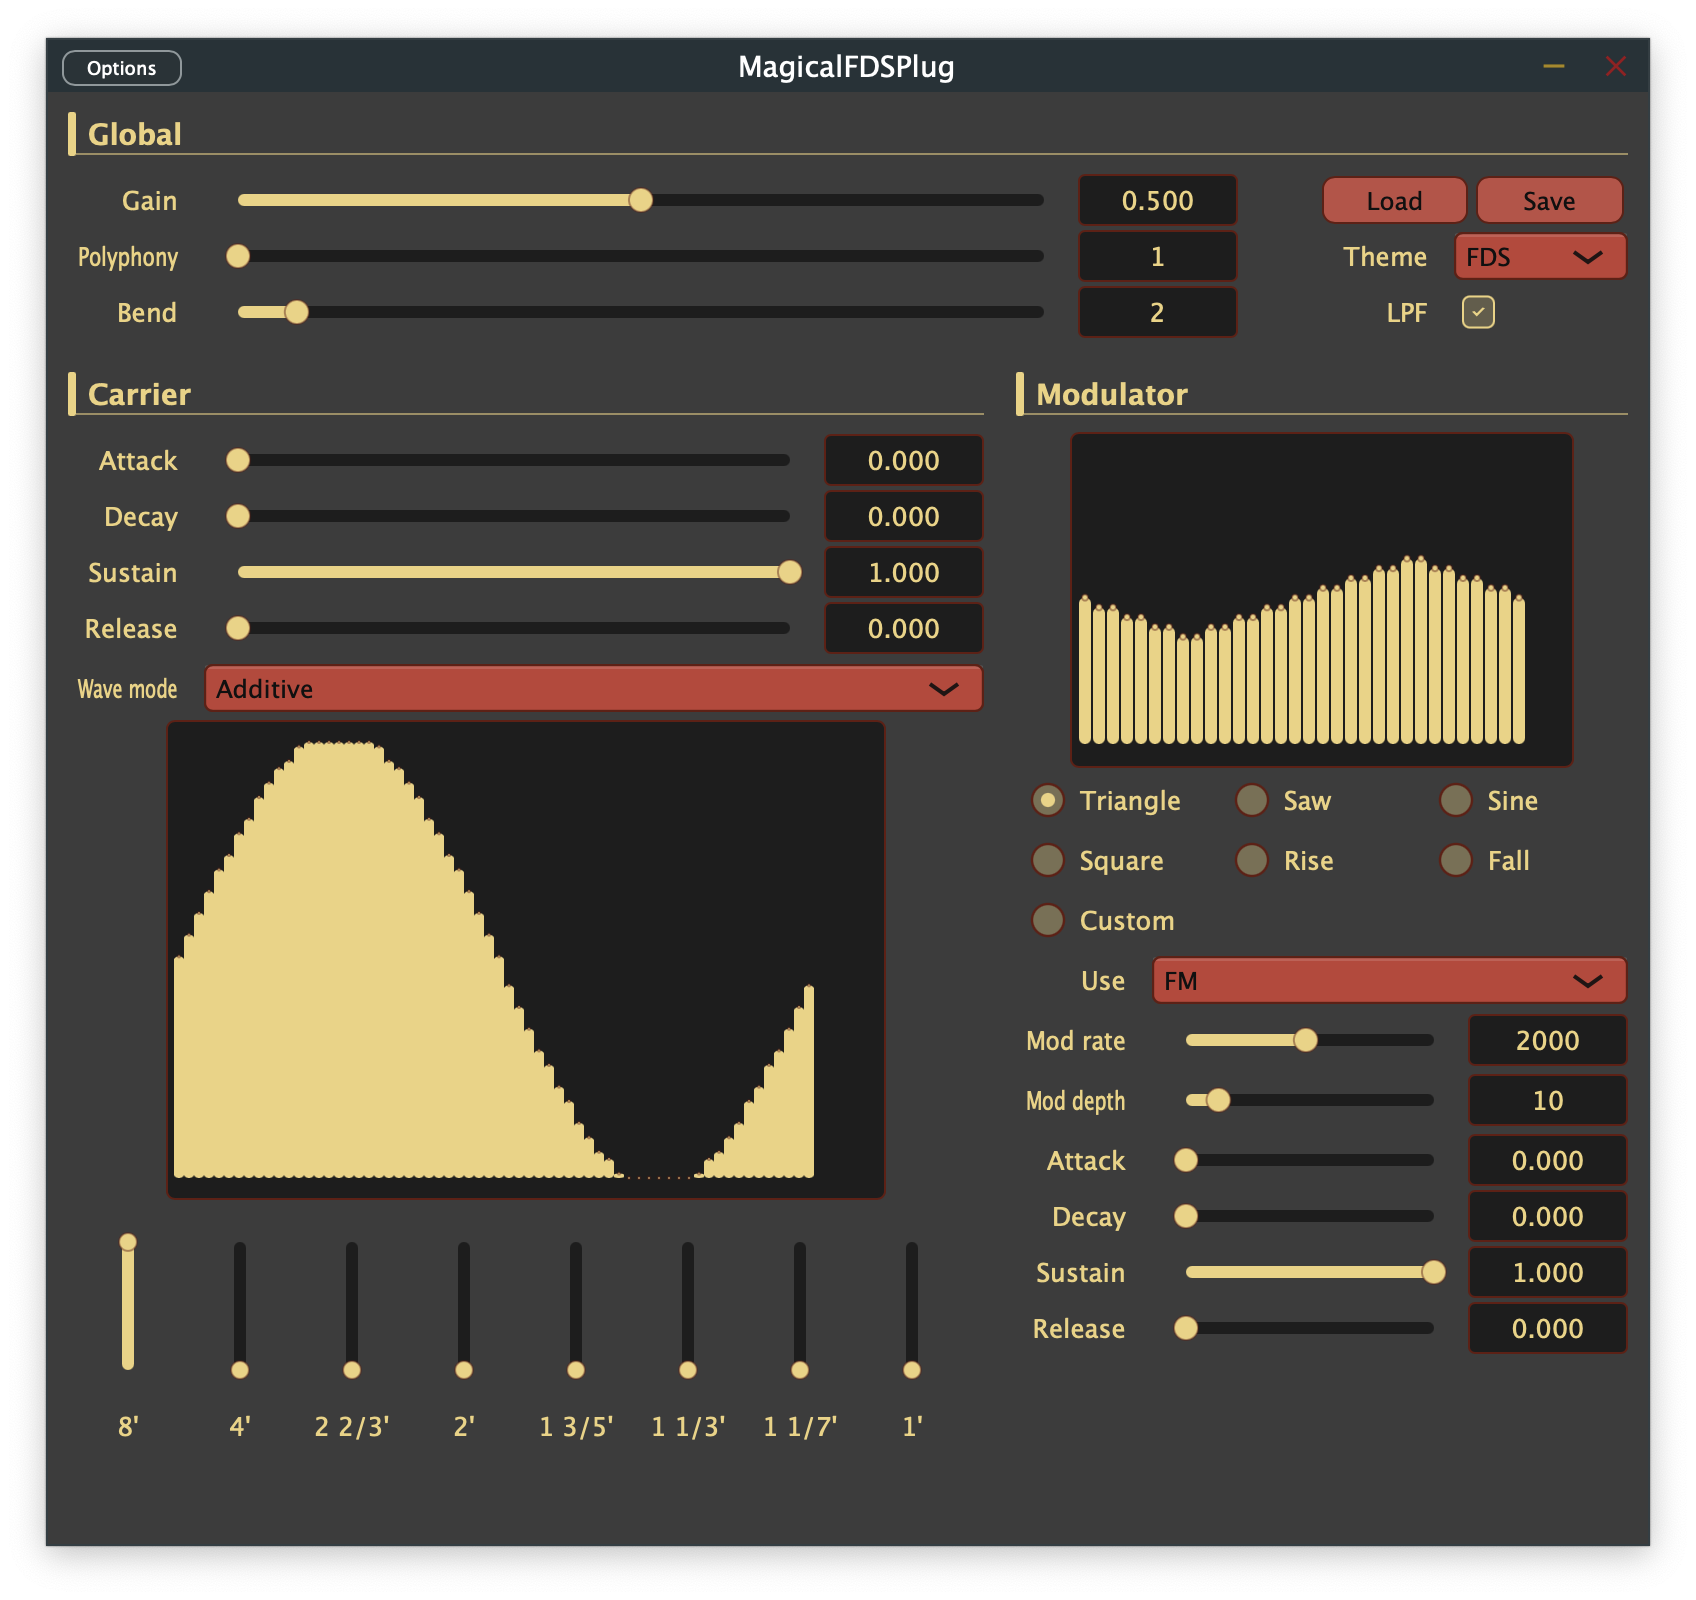
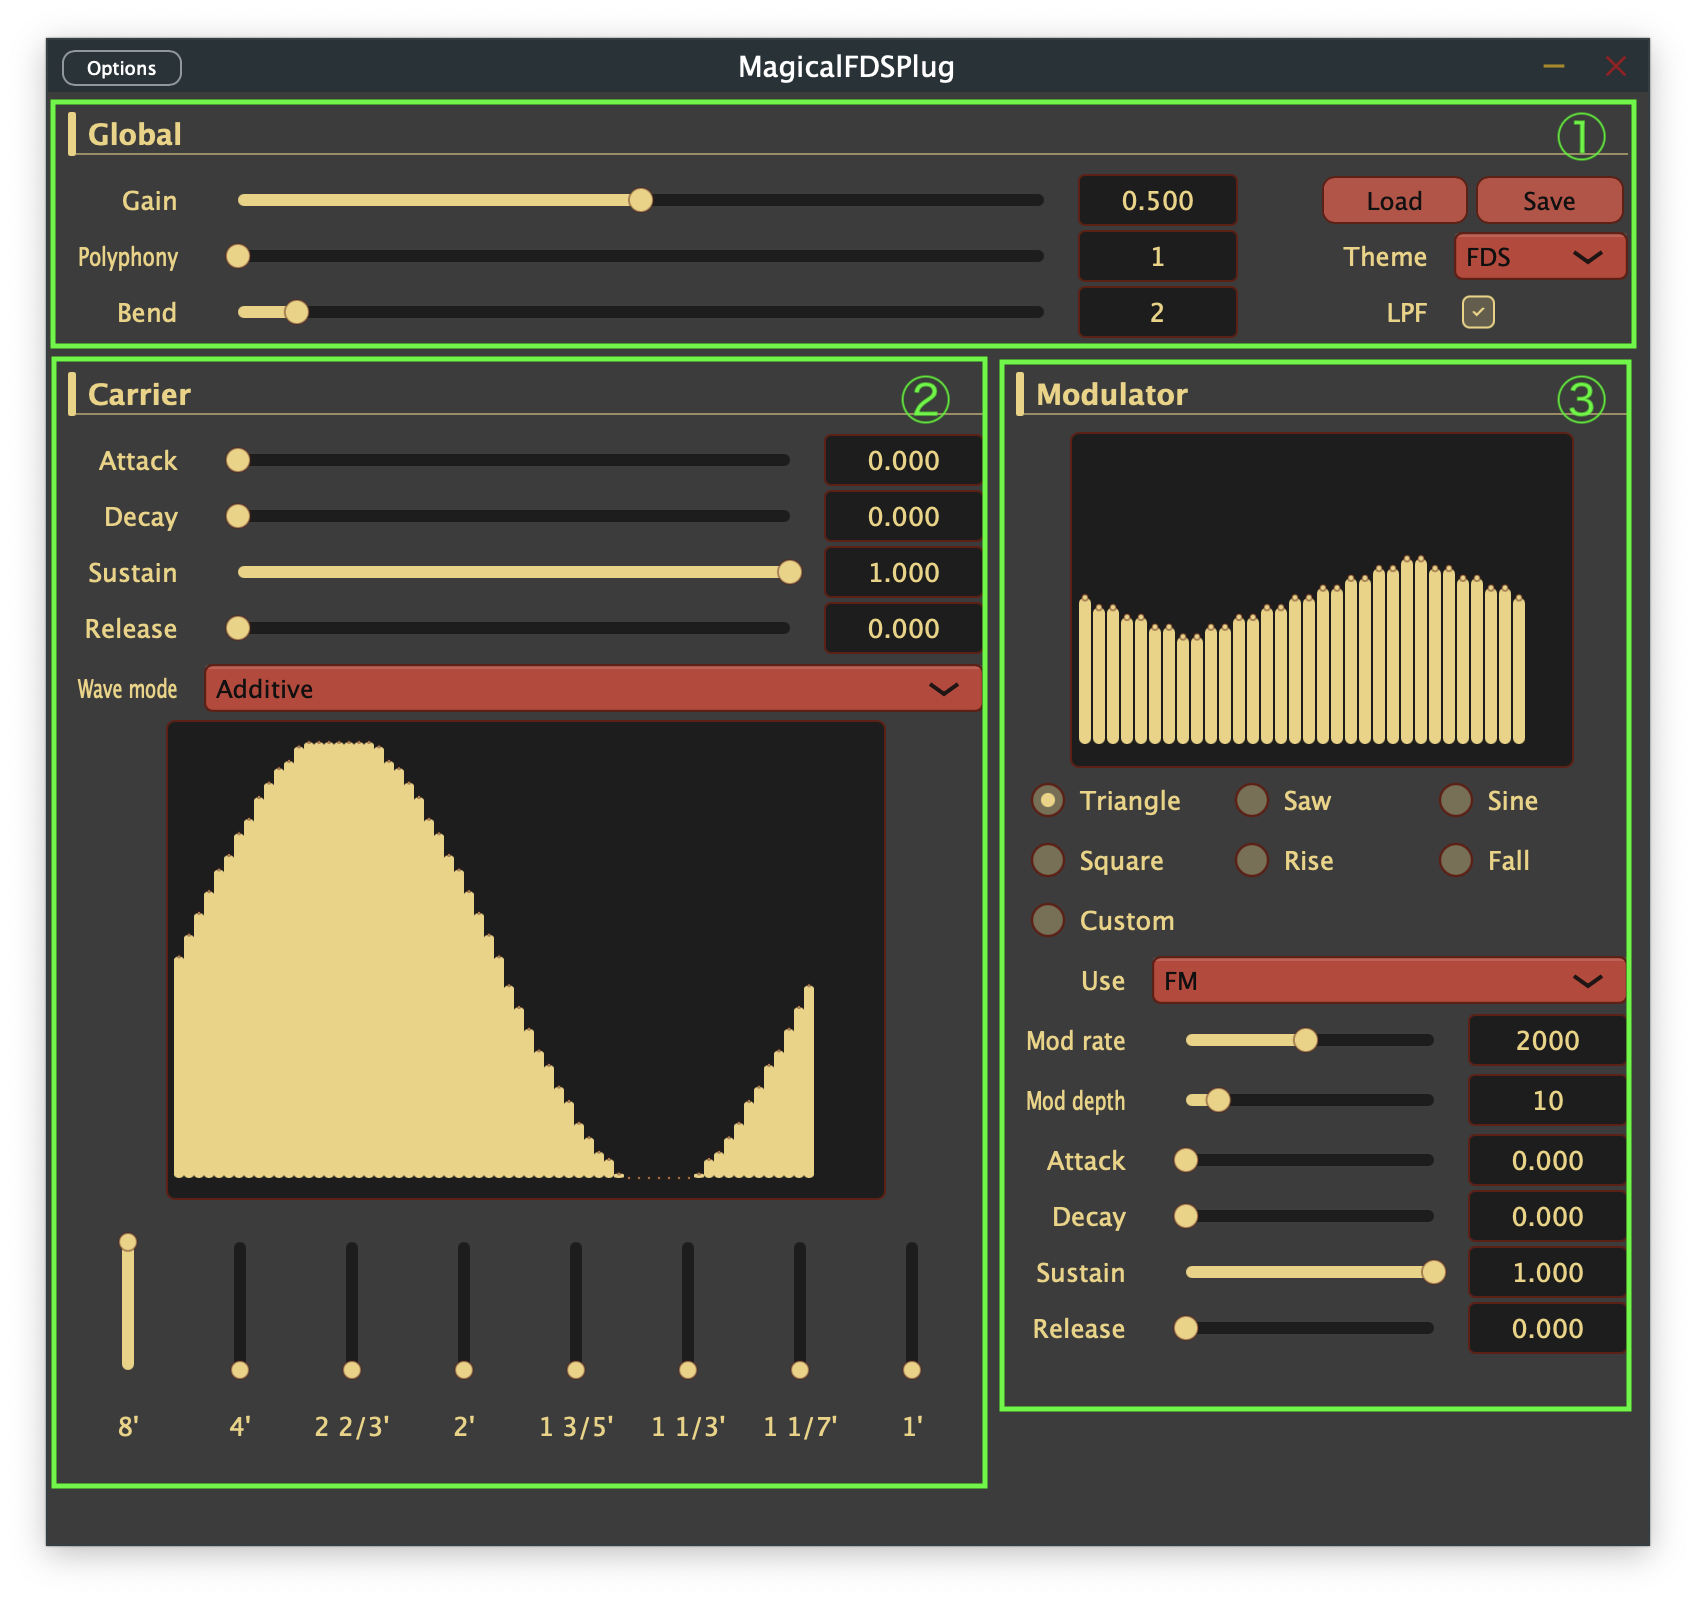
Fixed docs

Changed region(s): [[0.0312, 0.0625, 0.9688, 0.9375], [0.0312, 0.0625, 0.0625, 0.0938]]

diff --git a/docs/readme-ja.html b/docs/readme-ja.html
@@ -126,12 +126,11 @@
 
     ---------------------------------------------------------->
     <h1>Magical FDS Plugとは</h1>
-    <p> Magical FDS Plug は、8bit 時代の「ディスクシステム音源」（FDS 音源）の音色を再現するソフトウェア・シンセサイザーです。
+    <p> Magical FDS Plug は、いわゆる「ディスクシステム音源」（FDS 音源）の音色を再現するソフトウェア・シンセサイザーです。
       Audio Units および VST3 をサポートする Mac / Windows のホストアプリケーションで、プラグインとして利用できます。
     </p>
     <p> FDS 音源は、64 サンプルの波形メモリ（キャリア）を、別の 32 ステップの命令列（モジュレータ）で変調するという独特の仕組みを持ちます。
-      自由度は高い一方、実機では波形データを直接編集する必要があり、設定が難しい面もありました。
-      本プラグインでは、その自由度を保ちつつ、加算合成やプリセット変形など、ロジカルな方法で波形を組み立てられるインターフェースを提供しています。
+      自由度が非常に高いため設定が難しい音源ですが、本プラグインでは、その自由度を保ちつつ、加算合成やプリセット変形など、ロジカルな方法で波形を組み立てられるインターフェースを提供しています。
     </p>
 
     <h2>特徴</h2>
@@ -142,7 +141,6 @@
       <li><strong>変調レート LFO / FM / OFF</strong> — ゆっくり揺らす LFO から、音色を変える FM まで使い分け</li>
       <li><strong>キャリア・モジュレータそれぞれ ADSR エンベロープ</strong> — Magical 8bit Plug 2 と同様の操作感</li>
       <li><strong>実機近似の出力ローパス（約 2 kHz）</strong> — オン／オフ切替（デフォルト：オン）</li>
-      <li><strong>Magical 8bit Plug 2 に準拠した UI</strong> — カラーテーマ 7 種類、セクション構成、ADSR の操作感</li>
     </ul>
 
     <h2>キャリアとモジュレータ</h2>
@@ -176,10 +174,16 @@
     </p>
     <p>
       特に最近では DAW 含むアプリは多様化していますので、それぞれについてプラグイン使用方法について把握しきれておりませんし、実質不可能です。
-      ですのでご質問は私ではなく、Google 先生か、またはお使いのソフトのユーザコミュニティなどにお問い合わせいただければと思います。
+      ですのでご質問は私ではなく、検索等で調べていただくか、またはお使いのソフトのユーザコミュニティなどにお問い合わせいただければと思います。
       基本的なインストール方法の問題については、お問い合わせいただいてもお答えいたしませんのであらかじめご了承ください。
     </p>
     <table>
+      <tr>
+        <td>プラットフォーム</td>
+        <td>プラグイン形式</td>
+        <td>拡張子</td>
+        <td>一般的なインストールパス</td>
+      </tr>
       <tr>
         <td rowspan="2">Mac</td>
         <td>AudioUnits</td>
@@ -251,7 +255,7 @@
     <p>キャリアは、実際に聴こえる 64 サンプル・64 段階（6 bit）の波形です（上図 ②）。</p>
 
     <h3>エンベロープ</h3>
-    <p>音量の時間変化を 4 つのパラメータで指定します。Magical 8bit Plug 2 と同様の操作感です。</p>
+    <p>音量の時間変化を 4 つのパラメータで指定します。</p>
     <dl>
       <dt>Carrier Attack</dt>
       <dd>鍵盤を押してから音量が最大に達するまでの時間（秒、0〜5）。</dd>
@@ -283,13 +287,10 @@
         <td>64 点を直接描画する</td>
       </tr>
     </table>
-    <p> Additive / Preset Morph / Pulse Shape の設定値は、モードを切り替えても内部に保持されます。
-      別モードを試したあと元に戻すと、以前の値が復元されます。Free Draw のみ例外で、スライダーの値がそのまま発音用パラメータになります。
-    </p>
 
     <h3>波形表示パート</h3>
     <p>64 本の縦スライダーで波形を表示します。Free Draw 以外は読み取り専用で、コントロールの変更に応じて更新されます。
-      Free Draw では各スライダーを直接操作できます（各点 0〜63、6 bit）。
+      Free Draw では各スライダーを直接操作できます（各点 0〜63）。
     </p>
 
     <h3>Additive（加算合成）</h3>
@@ -304,7 +305,7 @@
       <dt>Preset</dt>
       <dd>Triangle / Sawtooth / Sine からベース波形を選択します。</dd>
       <dt>Morph</dt>
-      <dd>中央（0）で無変形。右に動かすと<strong>圧縮</strong>（小さい振幅を相対的に強調）、左に動かすと<strong>伸長</strong>（小さい振幅をさらに下げる）。内部的にはべき乗変形です。</dd>
+      <dd>中央（0）で無変形。右に動かすと<strong>圧縮</strong>（小さい振幅を相対的に強調）、左に動かすと<strong>伸長</strong>（小さい振幅をさらに下げる）。</dd>
     </dl>
 
     <h3>Pulse Shape（パルス変形）</h3>
@@ -322,11 +323,11 @@
 
     <h2><a name="modulator">Modulator セクション</a></h2>
 
-    <p>モジュレータは、FDS 実機と同様 32 ステップの 3 bit 命令列として動作し、キャリア波形の読み出し速度（＝音色）を変調します（上図 ③）。</p>
+    <p>モジュレータは、FDS 実機と同様 32 ステップの 3 bit 命令列(opcode列; 後述)として動作し、キャリア波形の読み出し速度（＝音色）を変調します（上図 ③）。</p>
 
     <h3>波形プレビューと波形選択</h3>
     <p>32 点の累積波形を表示します（読み取り専用）。Triangle / Saw / Sine / Square / Rise / Fall / Custom から選択します。
-      プリセット 6 種は、実機 opcode 列に相当する命令列を内部に保持しています。Custom 選択時は opcode テキスト欄が表示されます。
+      Custom 選択時は opcode テキスト欄が表示されます。
     </p>
 
     <h3>Use / Rate / Depth</h3>
@@ -379,12 +380,15 @@
 
     <img class="half" src="./img/modulator_custom.png">
 
-    <p> Custom 選択時、32 桁の数字（各 0〜7）を 1 行で入力します。空白は無視されます。全角数字は使用できません。
-      有効な 32 桁が入力確定した時点で、カスタム opcode 列が反映されます。
-      プリセット波形（Triangle など）を選んだあと Custom に切り替えると、直前のプリセットを起点に編集を始められます。
+    <p> モジュレータの波形はキャリアの波形と異なり、各ステップに値の操作命令(opcode)を配置することで指定します。
+      命令は基本的には値の上げ下げのみなので、急速に値が上下するような波形は作ることができません。
+      （唯一例外がリセットコマンドで、即座に値を0にリセットします。）</p>
+    <p>
+      opcode は 0〜7 の数字で、Custom 選択時はこれを 32 桁入力します。空白は無視されます。全角数字は使用できません。
+      有効な 32 桁が入力確定した時点で、音色に反映されます。
     </p>
 
-    <h2>各数字の意味（FDS 実機準拠）</h2>
+    <h2>各数字(opcode)の意味（FDS 実機準拠）</h2>
     <table>
       <tr>
         <td>数字</td>

diff --git a/docs/readme-en.html b/docs/readme-en.html
@@ -126,15 +126,14 @@
 
     ---------------------------------------------------------->
     <h1>What is Magical FDS Plug?</h1>
-    <p> Magical FDS Plug is a software synthesizer that reproduces the sound of the Famicom Disk System (FDS) audio
-      chip — often called the "Disk System sound source" in Japanese chiptune culture. It runs as a plug-in in host
-      applications that support Audio Units (Mac) or VST3 (Mac / Windows).
+    <p> Magical FDS Plug is a software synthesizer that reproduces the sound of the so-called "Disk System sound source"
+      (FDS sound source). It runs as a plug-in in host applications that support Audio Units (Mac) or VST3
+      (Mac / Windows).
     </p>
-    <p> The FDS generates sound by reading a 64-sample wavetable (the <strong>carrier</strong>) while a separate
-      32-step sequence of 3-bit opcodes (the <strong>modulator</strong>) changes how fast that table is scanned —
-      which effectively modulates timbre. The real hardware offered great freedom but required hand-editing raw
-      waveform data. This plug-in keeps that flexibility while providing logical editors: additive drawbars, preset
-      morphing, pulse shaping, and free drawing.
+    <p> The FDS sound source has a unique mechanism: a 64-sample wavetable (the <strong>carrier</strong>) is modulated
+      by a separate 32-step command sequence (the <strong>modulator</strong>). Because it offers extremely high freedom,
+      it is difficult to configure; this plug-in keeps that freedom while providing a logical interface to build
+      waveforms — additive synthesis, preset morphing, and more.
     </p>
 
     <h2>Features</h2>
@@ -145,7 +144,6 @@
       <li><strong>Mod rate modes: LFO / FM / OFF</strong> — From slow vibrato-like sweeps to timbral FM</li>
       <li><strong>Separate ADSR envelopes</strong> for carrier and modulator (same feel as Magical 8bit Plug 2)</li>
       <li><strong>~2 kHz output low-pass filter</strong> (on by default) for hardware-like tone</li>
-      <li><strong>UI aligned with Magical 8bit Plug 2</strong> — Seven color themes, section layout, ADSR controls</li>
     </ul>
 
     <h2>Carrier and modulator</h2>
@@ -174,12 +172,20 @@
 
     ---------------------------------------------------------->
     <h1>Installation</h1>
-    <p>Basically put the plug-in file in the appropriate folder to start using. As the actual installation method will
-      vary according to your system and host application, please refer to the instructions from them for the detail.
+    <p>Basically put the plug-in file in the folder specified by your OS or host application to start using.
+      Typical installation paths are listed below. The actual location varies by environment; please refer to your OS
+      or DAW documentation.
     </p>
-    <p>If you have any questions please don't ask me but ask Google. I'm not going to be your kindly technical assistant.
-      Please don't ask me about the installation because I don't know about your system.</p>
+    <p>Host applications including DAWs have become increasingly diverse, and it is practically impossible for me to
+      know how each one handles plug-ins. If you have questions, please search for answers or ask your software's user
+      community rather than contacting me. I will not respond to inquiries about basic installation methods.</p>
     <table>
+      <tr>
+        <td>Platform</td>
+        <td>Plug-in format</td>
+        <td>Extension</td>
+        <td>Typical installation path</td>
+      </tr>
       <tr>
         <td rowspan="2">Mac</td>
         <td>AudioUnits</td>
@@ -251,7 +257,7 @@
     <p>The carrier is a 64-sample, 6-bit (64-level) wavetable — what you actually hear (see (2) above).</p>
 
     <h3>Envelope</h3>
-    <p>Volume envelope with four parameters. Same behavior as Magical 8bit Plug 2.</p>
+    <p>Volume envelope with four parameters.</p>
     <dl>
       <dt>Carrier Attack</dt>
       <dd>Time until volume reaches maximum after key on (seconds, 0–5).</dd>
@@ -283,9 +289,6 @@
         <td>Draw 64 samples directly</td>
       </tr>
     </table>
-    <p> Settings for Additive, Preset Morph, and Pulse Shape are <strong>remembered</strong> when you switch modes.
-      Free Draw is an exception: slider values map directly to the sounding wavetable.
-    </p>
 
     <h3>Wave display</h3>
     <p>64 vertical bars show the table. Read-only except in Free Draw, where each bar is editable (0–63).</p>
@@ -303,7 +306,7 @@
       <dd>Triangle, Sawtooth, or Sine.</dd>
       <dt>Morph</dt>
       <dd>Center = no change. Move right to <strong>compress</strong> (emphasize smaller amplitudes); left to
-        <strong>expand</strong> (attenuate them further). Implemented as power-law shaping.</dd>
+        <strong>expand</strong> (attenuate them further).</dd>
     </dl>
 
     <h3>Pulse Shape</h3>
@@ -321,12 +324,12 @@
 
     <h2><a name="modulator">Modulator Section</a></h2>
 
-    <p>The modulator is a 32-step sequence of 3-bit opcodes (as on real FDS hardware). It modulates how the carrier
-      wavetable is scanned, changing timbre (see (3) above).</p>
+    <p>The modulator runs as a 32-step sequence of 3-bit opcodes (see below), as on real FDS hardware. It modulates
+      how the carrier wavetable is scanned, changing timbre (see (3) above).</p>
 
     <h3>Wave preview and wave type</h3>
     <p>32-step cumulative shape (read-only). Choose Triangle, Saw, Sine, Square, Rise, Fall, or Custom.
-      Six presets embed hardware-equivalent opcode sequences. Custom shows a text field for opcodes.</p>
+      When Custom is selected, an opcode text field is shown.</p>
 
     <h3>Use / Rate / Depth</h3>
     <img class="half" src="./img/modulator_fm.png">
@@ -378,12 +381,15 @@
 
     <img class="half" src="./img/modulator_custom.png">
 
-    <p> When Custom is selected, enter exactly <strong>32 digits</strong> 0–7 in one line. Spaces are ignored.
-      Full-width digits are not allowed. The custom sequence applies once valid input is committed.
-      Switching from a preset to Custom starts from that preset's opcode sequence.
+    <p> Unlike the carrier wavetable, the modulator shape is specified by placing value-manipulation commands (opcodes)
+      at each step. Commands basically only raise or lower the value, so you cannot create waveforms that jump up and
+      down abruptly. (The sole exception is the reset command, which instantly resets the value to 0.)</p>
+    <p>
+      Opcodes are digits 0–7. When Custom is selected, enter 32 of them in one line. Spaces are ignored.
+      Full-width digits are not allowed. Once valid input is committed, the timbre is updated.
     </p>
 
-    <h2>Opcode meanings (FDS hardware)</h2>
+    <h2>Meaning of each digit (opcode) (FDS hardware)</h2>
     <table>
       <tr>
         <td>Digit</td>
